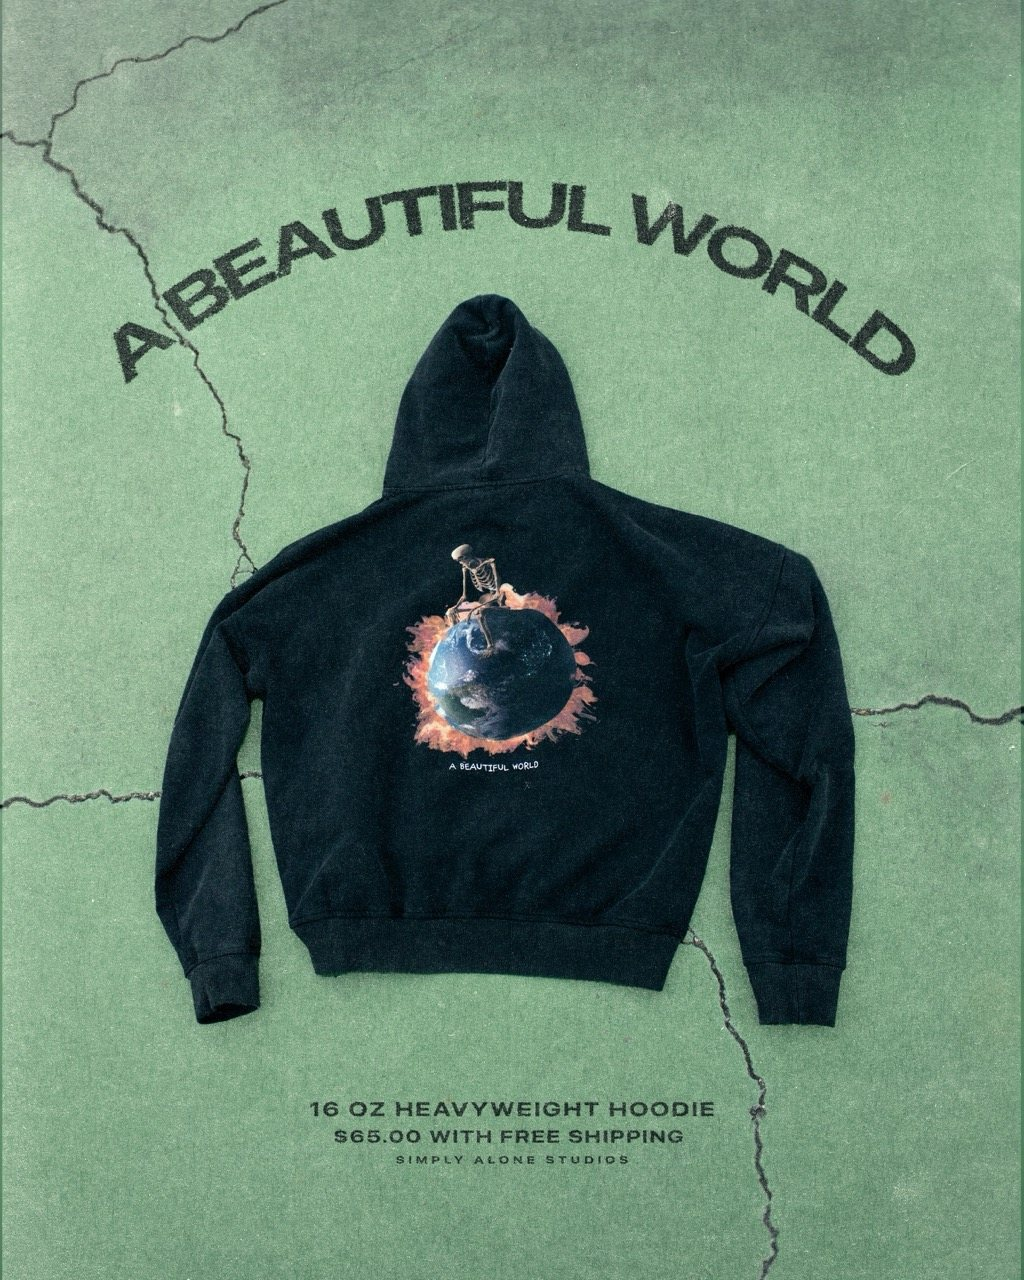
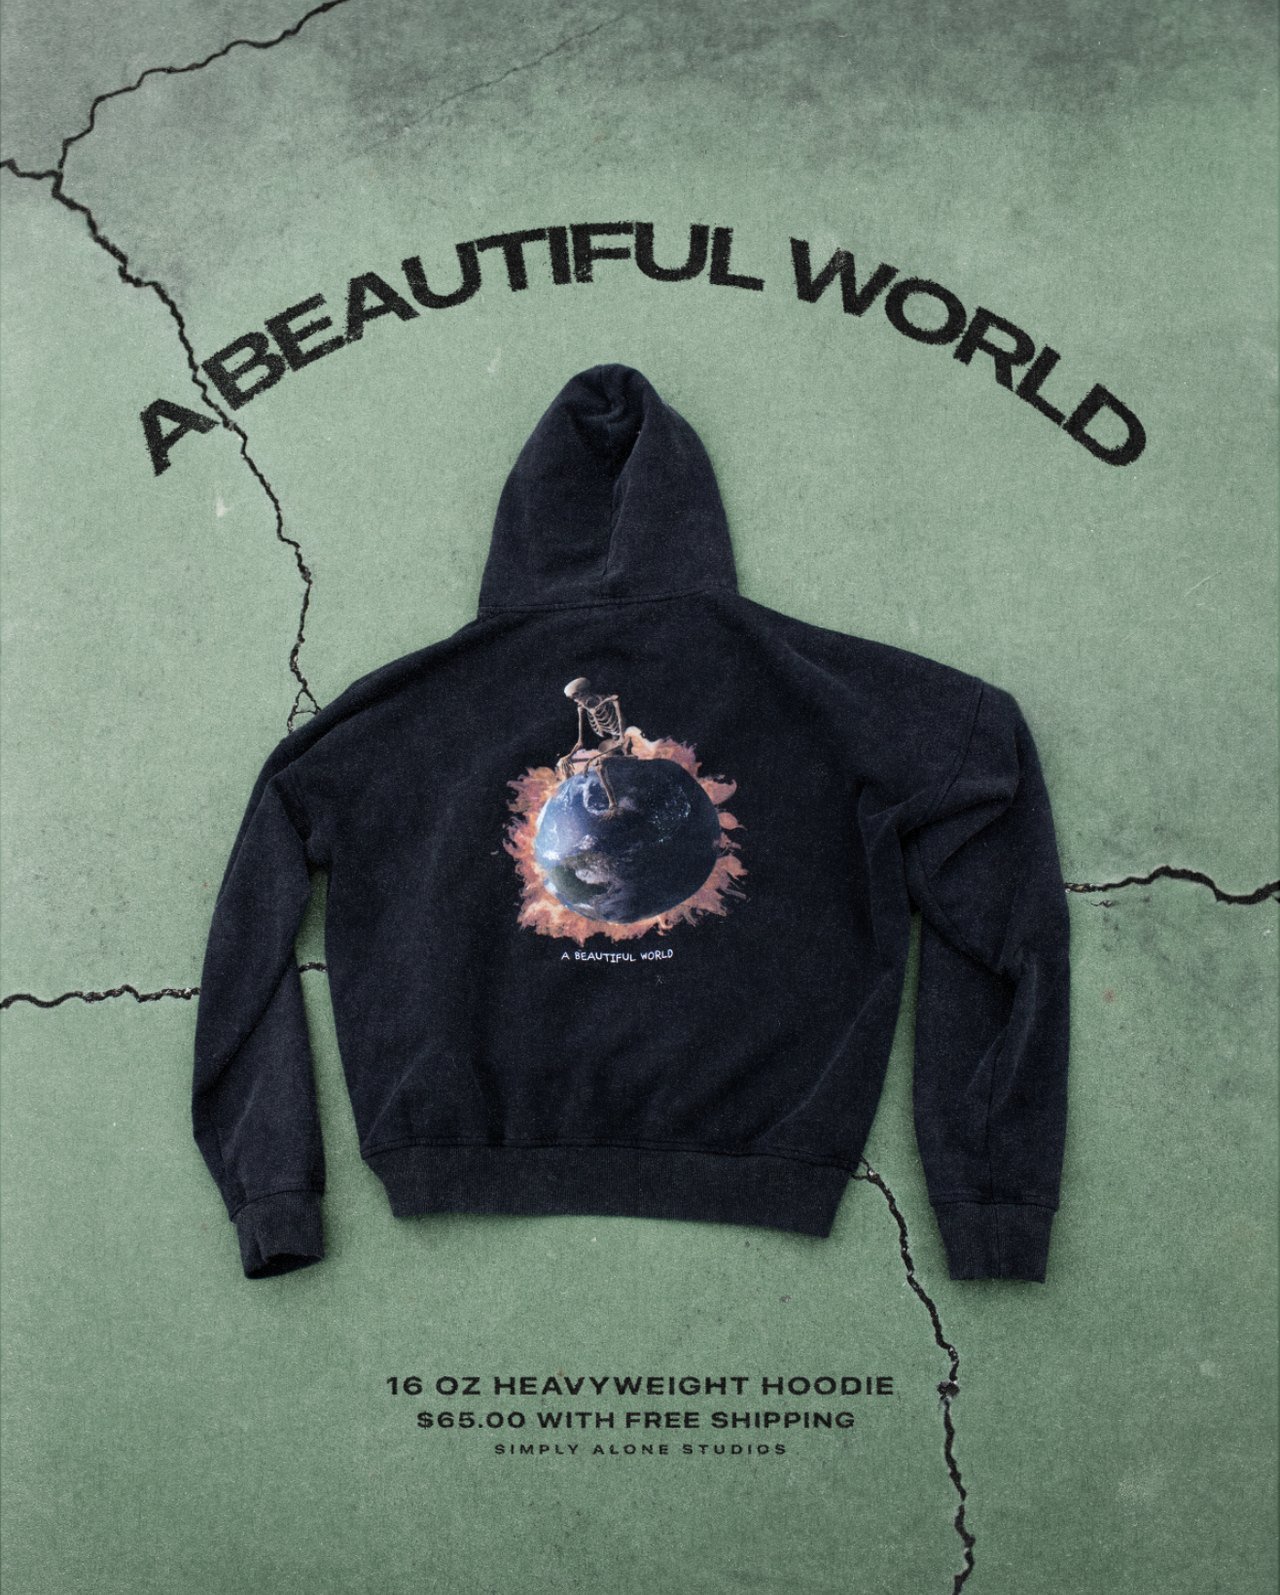
Lead the Simply Alone campaign with the tee and hoodie product frames
Adds the tee frame as sa-ad-tee and replaces sa-ad-hoodie with the
better source. Both now open the project page and sit directly under the
growth poster in the pitch page proof section.

The two uploads were not two new ads: "ad 7" is the same hoodie frame
already on the site, framed wider and exported at higher quality, so it
replaces that file rather than publishing the ad twice. Both were 4 MB
RGBA PNGs with no transparency - flattened and resized to 1280px JPEGs,
8.4 MB down to 739 KB.

Claude-Session: https://claude.ai/code/session_01FnKR2esapp79CcbZxhVNMY

diff --git a/work/simply-alone.html b/work/simply-alone.html
@@ -76,13 +76,14 @@
 
   <section class="wrap section--tight">
     <div class="work-grid work-grid--feature">
-      <div class="plate plate--contain reveal" style="background:#0b0b0c"><img src="../assets/img/sa-ad-beautiful-world.jpg" alt="Fig. 01 | Campaign" loading="lazy"><p class="plate__cap">Fig. 01 | Campaign</p></div>
-      <div class="plate plate--contain reveal" data-delay="90" style="background:#0b0b0c"><img src="../assets/img/sa-ad-awareness.jpg" alt="Fig. 02 | Awareness frame" loading="lazy"><p class="plate__cap">Fig. 02 | Awareness frame</p></div>
-      <div class="plate plate--contain reveal" style="background:#0b0b0c"><img src="../assets/img/sa-ad-hoodie.jpg" alt="Fig. 03 | Product frame" loading="lazy"><p class="plate__cap">Fig. 03 | Product frame</p></div>
-      <div class="plate plate--contain reveal" data-delay="90" style="background:#0b0b0c"><img src="../assets/img/sa-ad-spec.jpg" alt="Fig. 04 | Specification frame" loading="lazy"><p class="plate__cap">Fig. 04 | Specification frame</p></div>
-      <div class="plate plate--contain reveal" style="background:#0b0b0c"><img src="../assets/img/sa-ad-proceeds.jpg" alt="Fig. 05 | Cause frame" loading="lazy"><p class="plate__cap">Fig. 05 | Cause frame</p></div>
-      <div class="plate plate--contain reveal" data-delay="90" style="background:#0b0b0c"><img src="../assets/img/simply-alone-grey.jpg" alt="Fig. 06 | Grey colourway" loading="lazy"><p class="plate__cap">Fig. 06 | Grey colourway</p></div>
-      <div class="plate plate--contain reveal" style="background:#0b0b0c"><img src="../assets/img/simply-alone-dissociate.jpg" alt="Fig. 07 | Second graphic" loading="lazy"><p class="plate__cap">Fig. 07 | Second graphic</p></div>
+      <div class="plate plate--contain reveal" style="background:#0b0b0c"><img src="../assets/img/sa-ad-tee.jpg" alt="Fig. 01 | Product frame, tee" loading="lazy"><p class="plate__cap">Fig. 01 | Product frame, tee</p></div>
+      <div class="plate plate--contain reveal" data-delay="90" style="background:#0b0b0c"><img src="../assets/img/sa-ad-hoodie.jpg" alt="Fig. 02 | Product frame, hoodie" loading="lazy"><p class="plate__cap">Fig. 02 | Product frame, hoodie</p></div>
+      <div class="plate plate--contain reveal" style="background:#0b0b0c"><img src="../assets/img/sa-ad-beautiful-world.jpg" alt="Fig. 03 | Campaign" loading="lazy"><p class="plate__cap">Fig. 03 | Campaign</p></div>
+      <div class="plate plate--contain reveal" data-delay="90" style="background:#0b0b0c"><img src="../assets/img/sa-ad-awareness.jpg" alt="Fig. 04 | Awareness frame" loading="lazy"><p class="plate__cap">Fig. 04 | Awareness frame</p></div>
+      <div class="plate plate--contain reveal" style="background:#0b0b0c"><img src="../assets/img/sa-ad-spec.jpg" alt="Fig. 05 | Specification frame" loading="lazy"><p class="plate__cap">Fig. 05 | Specification frame</p></div>
+      <div class="plate plate--contain reveal" data-delay="90" style="background:#0b0b0c"><img src="../assets/img/sa-ad-proceeds.jpg" alt="Fig. 06 | Cause frame" loading="lazy"><p class="plate__cap">Fig. 06 | Cause frame</p></div>
+      <div class="plate plate--contain reveal" style="background:#0b0b0c"><img src="../assets/img/simply-alone-grey.jpg" alt="Fig. 07 | Grey colourway" loading="lazy"><p class="plate__cap">Fig. 07 | Grey colourway</p></div>
+      <div class="plate plate--contain reveal" data-delay="90" style="background:#0b0b0c"><img src="../assets/img/simply-alone-dissociate.jpg" alt="Fig. 08 | Second graphic" loading="lazy"><p class="plate__cap">Fig. 08 | Second graphic</p></div>
     </div>
   </section>
 

diff --git a/pitch.html b/pitch.html
@@ -113,6 +113,17 @@
 
     <div class="work-grid work-grid--feature reveal" data-delay="60" style="margin-top:clamp(16px,2.4vw,32px)">
       <div class="plate plate--contain" style="background:#0b0b0c">
+        <img src="assets/img/sa-ad-tee.jpg" alt="Product frame, tee, with fabric and shipping callouts" loading="lazy">
+        <p class="plate__cap">Campaign | Product frame, tee</p>
+      </div>
+      <div class="plate plate--contain" style="background:#0b0b0c">
+        <img src="assets/img/sa-ad-hoodie.jpg" alt="Product frame, hoodie, sixteen ounce heavyweight" loading="lazy">
+        <p class="plate__cap">Campaign | Product frame, hoodie</p>
+      </div>
+    </div>
+
+    <div class="work-grid work-grid--feature reveal" data-delay="60" style="margin-top:clamp(16px,2.4vw,32px)">
+      <div class="plate plate--contain" style="background:#0b0b0c">
         <img src="assets/img/sa-ad-spec.jpg" alt="Product frame with fabric and price callouts" loading="lazy">
         <p class="plate__cap">Campaign | Product frame</p>
       </div>
